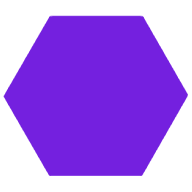
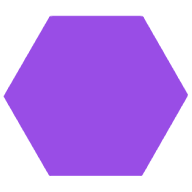
Updated iconography and theme colours

diff --git a/index.html b/index.html
@@ -5,7 +5,7 @@
     <meta charset="UTF-8">
     <meta name="viewport" content="width=device-width, initial-scale=1.0">
     <meta name="color-scheme" content="dark">
-    <meta name="theme-color" content="#8020DF">
+    <meta name="theme-color" content="#994DE6">
     <link rel="apple-touch-icon" sizes="180x180" href="/apple-touch-icon.png">
     <link rel="icon" type="image/png" sizes="32x32" href="/favicon-32x32.png">
     <link rel="icon" type="image/png" sizes="16x16" href="/favicon-16x16.png">
